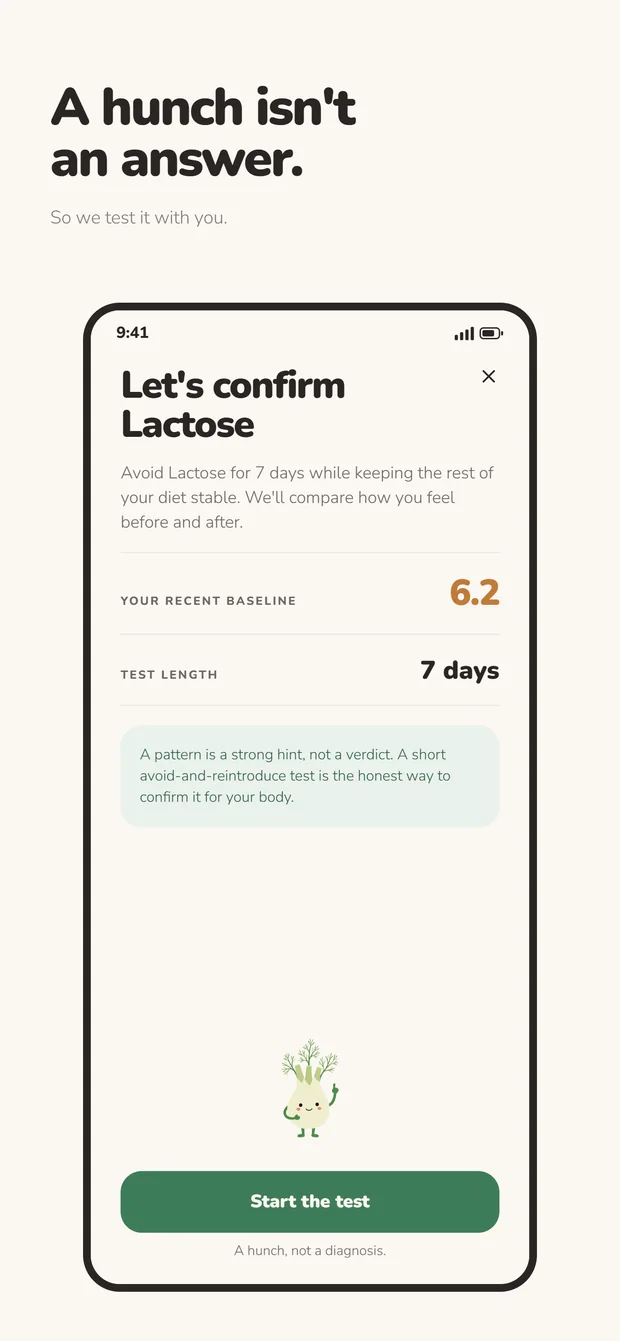
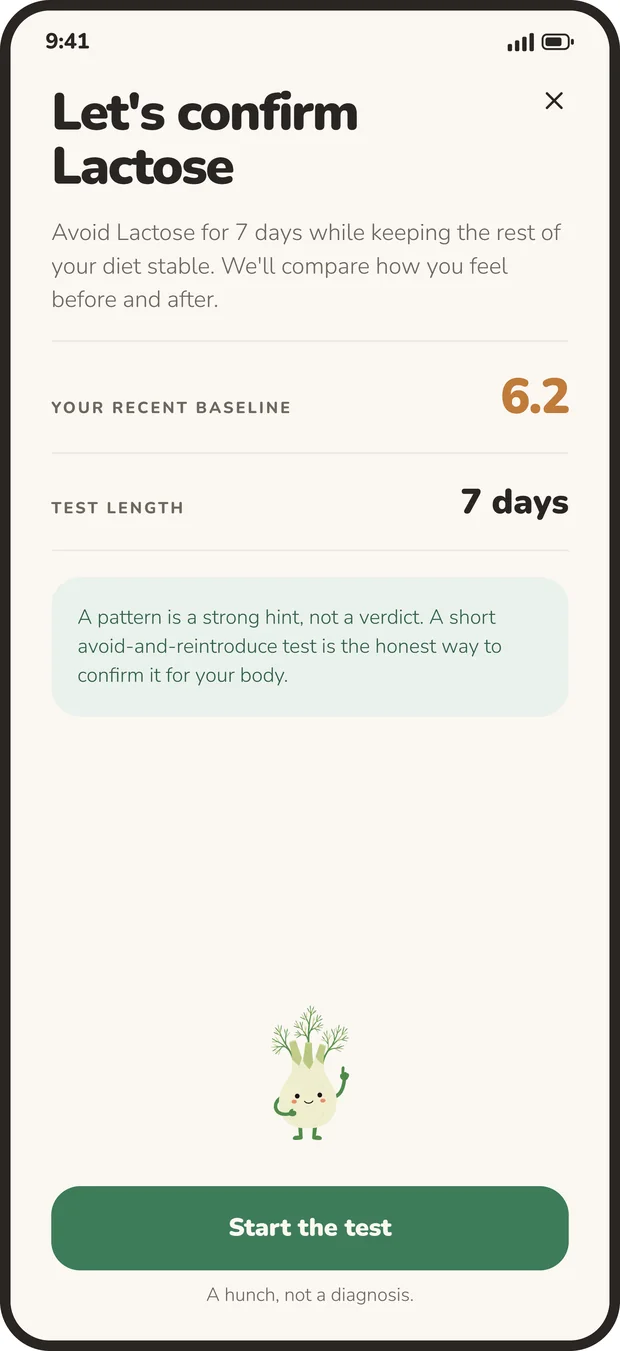
landing: neue Store-Screenshots, getrennte Assets fuer DE und EN

diff --git a/index.html b/index.html
@@ -174,7 +174,7 @@
       </div>
       <p class="trust"><b>Free to download.</b> Your data stays in the EU. Delete it any time.</p>
     </div>
-    <div class="hero-shot"><img src="assets/en/suspects.webp?v=4" alt="Fennly showing ranked suspected food triggers, with lactose at the top" width="620" height="1341" fetchpriority="high"></div>
+    <div class="hero-shot"><img src="assets/en/suspects.webp?v=5" alt="Fennly showing ranked suspected food triggers, with lactose at the top" width="620" height="1351" fetchpriority="high"></div>
   </div>
 
   <section>
@@ -187,19 +187,19 @@
         <div class="num">1</div>
         <h3>Snap your meal</h3>
         <p>Fennly recognises the dish and splits it into ingredients with their trigger categories. It knows a pizza is dough, cheese and tomato.</p>
-        <img src="assets/en/capture.webp?v=4" alt="Meal photo broken down into detected ingredients" loading="lazy" width="620" height="1341">
+        <img src="assets/en/capture.webp?v=5" alt="Meal photo broken down into detected ingredients" loading="lazy" width="620" height="1351">
       </div>
       <div class="step">
         <div class="num">2</div>
         <h3>Say how you feel</h3>
         <p>Ten seconds in the evening. Bloating, cramps, fatigue, headache, skin. Or an acute entry the moment it hits.</p>
-        <img src="assets/en/log.webp?v=4" alt="Logging options: photo, voice, text, evening recap, acute entry" loading="lazy" width="620" height="1341">
+        <img src="assets/en/log.webp?v=5" alt="Logging options: photo, voice, text, evening recap, acute entry" loading="lazy" width="620" height="1351">
       </div>
       <div class="step">
         <div class="num">3</div>
         <h3>Meet your suspects</h3>
         <p>After a few days Fennly ranks what is statistically most likely behind your symptoms, with a confidence score for each.</p>
-        <img src="assets/en/suspects.webp?v=4" alt="Ranked list of suspected triggers with confidence scores" loading="lazy" width="620" height="1341">
+        <img src="assets/en/suspects.webp?v=5" alt="Ranked list of suspected triggers with confidence scores" loading="lazy" width="620" height="1351">
       </div>
     </div>
   </section>
@@ -225,10 +225,10 @@
         <h2>A hunch is not an answer. So Fennly tests it.</h2>
         <p>When a suspect is strong enough, Fennly walks you through a proper elimination and reintroduction test: cut it for a set window, then bring it back, and read the verdict. That is the same method a dietitian would use, minus the paperwork.</p>
       </div>
-      <img src="assets/en/test.webp?v=4" alt="Guided elimination test for lactose over seven days" loading="lazy" width="620" height="1341">
+      <img src="assets/en/test.webp?v=5" alt="Guided elimination test for lactose over seven days" loading="lazy" width="620" height="1351">
     </div>
     <div class="split">
-      <img src="assets/en/withwithout.webp?v=4" alt="Comparison of symptom load on days with and without a suspected trigger" loading="lazy" width="620" height="1341">
+      <img src="assets/en/withwithout.webp?v=5" alt="Comparison of symptom load on days with and without a suspected trigger" loading="lazy" width="620" height="1351">
       <div class="txt">
         <h2>See the difference, do not just feel it</h2>
         <p>Days with the suspect against days without, side by side. It is the moment most people stop guessing, and the chart you can hand to your doctor instead of trying to remember what you ate three Tuesdays ago.</p>
@@ -300,7 +300,7 @@
       </div>
       <p class="trust"><b>Kostenlos laden.</b> Deine Daten liegen in der EU. Jederzeit löschbar.</p>
     </div>
-    <div class="hero-shot"><img src="assets/de/suspects.webp?v=4" alt="Fennly zeigt die wahrscheinlichsten Auslöser, ganz oben Laktose" width="620" height="1341"></div>
+    <div class="hero-shot"><img src="assets/de/suspects.webp?v=5" alt="Fennly zeigt die wahrscheinlichsten Auslöser, ganz oben Laktose" width="620" height="1351"></div>
   </div>
 
   <section>
@@ -313,19 +313,19 @@
         <div class="num">1</div>
         <h3>Mahlzeit fotografieren</h3>
         <p>Fennly erkennt das Gericht und zerlegt es in Zutaten mit ihren Auslöser-Kategorien. Es weiß, dass eine Pizza aus Teig, Käse und Tomate besteht.</p>
-        <img src="assets/de/capture.webp?v=4" alt="Foto einer Mahlzeit, aufgeschlüsselt in erkannte Zutaten" loading="lazy" width="620" height="1341">
+        <img src="assets/de/capture.webp?v=5" alt="Foto einer Mahlzeit, aufgeschlüsselt in erkannte Zutaten" loading="lazy" width="620" height="1351">
       </div>
       <div class="step">
         <div class="num">2</div>
         <h3>Befinden erfassen</h3>
         <p>Zehn Sekunden am Abend. Blähbauch, Krämpfe, Müdigkeit, Kopfschmerzen, Haut. Oder ein Akuteintrag genau dann, wenn es losgeht.</p>
-        <img src="assets/de/log.webp?v=4" alt="Erfassungsoptionen: Foto, Sprache, Text, Abend-Rückblick, Akuteintrag" loading="lazy" width="620" height="1341">
+        <img src="assets/de/log.webp?v=5" alt="Erfassungsoptionen: Foto, Sprache, Text, Abend-Rückblick, Akuteintrag" loading="lazy" width="620" height="1351">
       </div>
       <div class="step">
         <div class="num">3</div>
         <h3>Verdächtige ansehen</h3>
         <p>Nach ein paar Tagen zeigt dir Fennly, was statistisch am ehesten hinter deinen Beschwerden steckt, mit einem Sicherheitswert pro Verdacht.</p>
-        <img src="assets/de/suspects.webp?v=4" alt="Rangliste der verdächtigen Auslöser mit Sicherheitswerten" loading="lazy" width="620" height="1341">
+        <img src="assets/de/suspects.webp?v=5" alt="Rangliste der verdächtigen Auslöser mit Sicherheitswerten" loading="lazy" width="620" height="1351">
       </div>
     </div>
   </section>
@@ -351,10 +351,10 @@
         <h2>Eine Vermutung ist keine Antwort. Also testet Fennly sie.</h2>
         <p>Wenn ein Verdacht stark genug ist, führt dich Fennly durch einen richtigen Eliminations- und Wiedereinführungstest: für einen festen Zeitraum weglassen, dann zurückholen, Ergebnis ablesen. Dieselbe Methode wie in der Ernährungsberatung, nur ohne Zettelwirtschaft.</p>
       </div>
-      <img src="assets/de/test.webp?v=4" alt="Geführter Eliminationstest für Laktose über sieben Tage" loading="lazy" width="620" height="1341">
+      <img src="assets/de/test.webp?v=5" alt="Geführter Eliminationstest für Laktose über sieben Tage" loading="lazy" width="620" height="1351">
     </div>
     <div class="split">
-      <img src="assets/de/withwithout.webp?v=4" alt="Vergleich der Beschwerden an Tagen mit und ohne den verdächtigen Auslöser" loading="lazy" width="620" height="1341">
+      <img src="assets/de/withwithout.webp?v=5" alt="Vergleich der Beschwerden an Tagen mit und ohne den verdächtigen Auslöser" loading="lazy" width="620" height="1351">
       <div class="txt">
         <h2>Den Unterschied sehen, nicht nur ahnen</h2>
         <p>Tage mit dem Verdächtigen gegen Tage ohne, direkt nebeneinander. Das ist der Moment, in dem die meisten aufhören zu raten. Und die Grafik, die du deiner Ärztin zeigen kannst, statt zu rekonstruieren, was du vor drei Dienstagen gegessen hast.</p>
